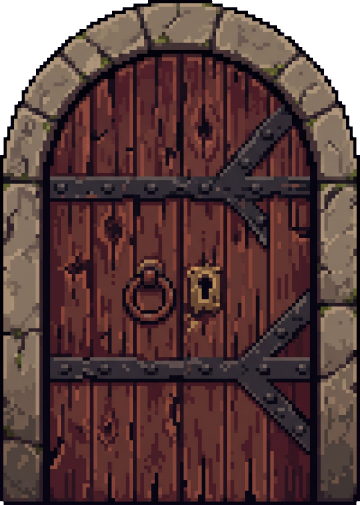
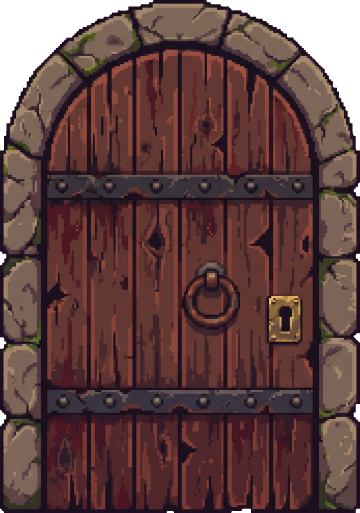
Nuova porta con fasce di ferro (v3.16.1)
Claude-Session: https://claude.ai/code/session_01UwMUYfMnSv1TJxhaAtLimG

diff --git a/css/style.css b/css/style.css
@@ -596,12 +596,12 @@ body.pre nav.tabs, body.pre .hud, body.pre .fab { display: none; }
 /* Dimora: le stanze sono porte antiche (img/porta.png). Il nome sta sul legno in alto, stato e barra in basso. */
 .rooms { gap: 16px 12px; padding: 2px 2px 4px; }
 .room.porta { padding: 0; border: 0; gap: 6px; background: none; align-items: stretch; text-align: center; color: #f2e2c4; }
-.room.porta .pd { position: relative; display: block; aspect-ratio: 360 / 505; }
+.room.porta .pd { position: relative; display: block; aspect-ratio: 360 / 513; }
 .room.porta .pd::before { content: ""; position: absolute; inset: 0; background: url(../img/porta.png) center / 100% 100% no-repeat; image-rendering: pixelated; filter: drop-shadow(0 4px 0 #0008); transition: transform .12s; }
 .room.porta:active .pd::before { transform: translateY(2px); }
 .room.porta.st3 .pd::before { filter: saturate(.6) brightness(.78) drop-shadow(0 4px 0 #0008); }
-.room.porta .rn { position: absolute; left: 50%; top: 17%; transform: translateX(-50%); width: max-content; max-width: 68%; padding: 3px 10px; font-size: .92rem; line-height: 1.15; overflow-wrap: anywhere; background: var(--parchment); color: #2a1608; border: 2px solid #1a0807; box-shadow: inset 0 -3px 0 #c9b07c, 0 2px 0 #0008; }
-.room.porta .pstack { position: absolute; left: 22%; right: 22%; bottom: 6%; display: flex; flex-direction: column; align-items: center; gap: 4px; }
+.room.porta .rn { position: absolute; left: 50%; top: 15%; transform: translateX(-50%); width: max-content; max-width: 68%; padding: 3px 10px; font-size: .92rem; line-height: 1.15; overflow-wrap: anywhere; background: var(--parchment); color: #2a1608; border: 2px solid #1a0807; box-shadow: inset 0 -3px 0 #c9b07c, 0 2px 0 #0008; }
+.room.porta .pstack { position: absolute; left: 22%; right: 22%; top: 40%; display: flex; flex-direction: column; align-items: center; gap: 4px; }
 .room.porta .pstack .pill { font-size: .72rem; padding: 1px 7px; background-color: #1a0807; }
 .room.porta .pstack .bar { width: 100%; height: 9px; }
 .room.porta .cap { display: block; text-align: center; color: #e0c9a6; }

diff --git a/js/app.js b/js/app.js
@@ -82,7 +82,7 @@ function stanzaDelPosto(tipo, pi) {
 }
 const LIVELLI_PRODOTTO = ["pieno", "metà", "quasi finito", "finito"];
 const XP_SOGLIE = [0, 200, 450, 750, 1100, 1500, 2000];
-const VERSIONE_APP = "3.16.0";
+const VERSIONE_APP = "3.16.1";
 const LV_ANIMALE = 2; /* dal livello 2 il primo animale è un regalo; gli altri si comprano con le monete */
 const SBLOCCHI = ["personaggio base", "il tuo primo animale, in regalo", "cappelli e accessori", "segni particolari", "accessori per animali", "animali fantasy", "oggetti rari"];
 const CAT = {

diff --git a/sw.js b/sw.js
@@ -1,6 +1,6 @@
 /* Our little world · service worker
    Tiene in cache la "scocca" dell'app così si apre subito; i dati arrivano sempre freschi da Supabase. */
-const VERSIONE = "olw-v3.16.0";
+const VERSIONE = "olw-v3.16.1";
 const SCOCCA = ["./", "index.html", "css/style.css", "js/store.js", "js/sprite.js", "js/csv.js", "js/ampolle.js", "js/app.js", "config.js", "manifest.webmanifest", "icons/icon-192.png", "icons/icon-512.png", "img/castello.webp", "img/porta.png"];
 
 self.addEventListener("install", e => {
